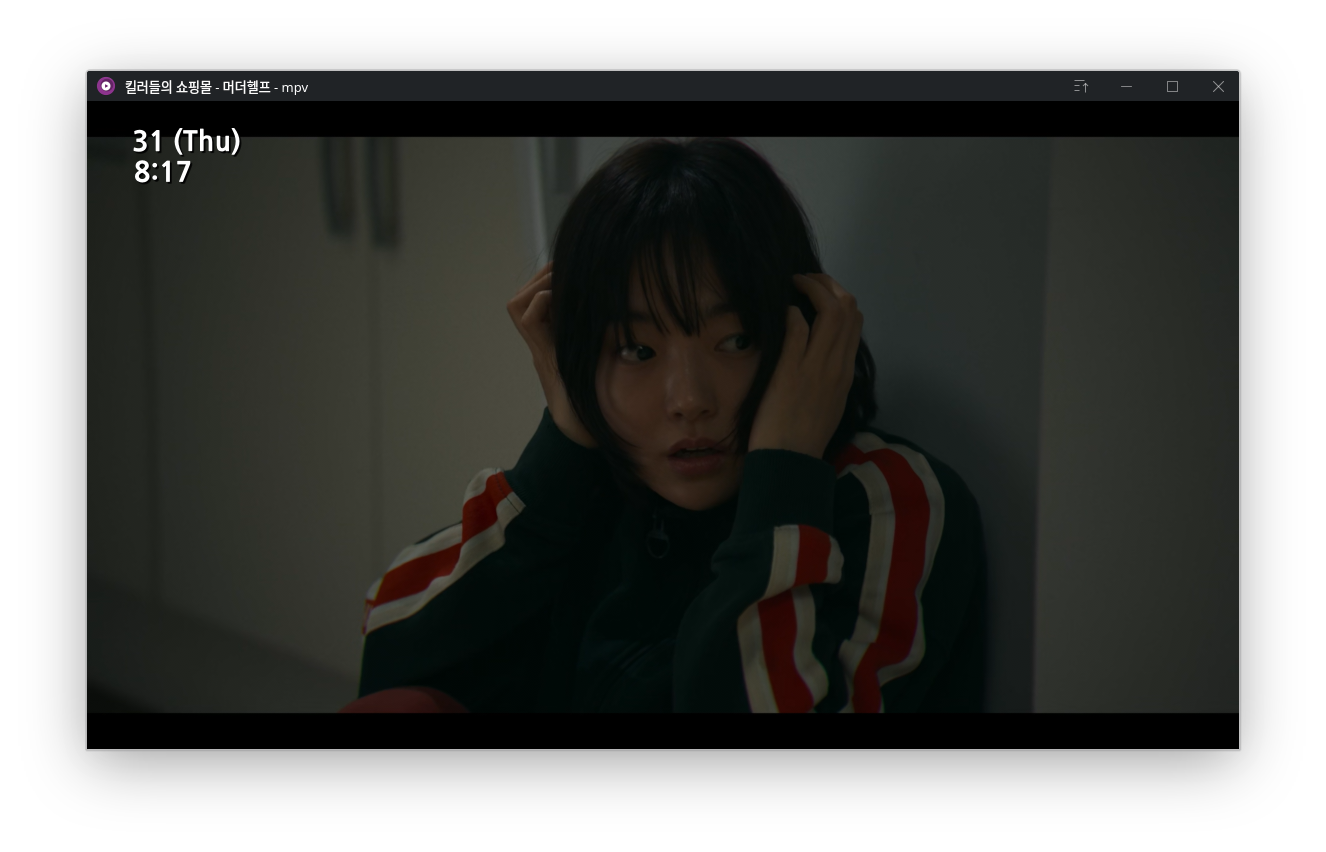
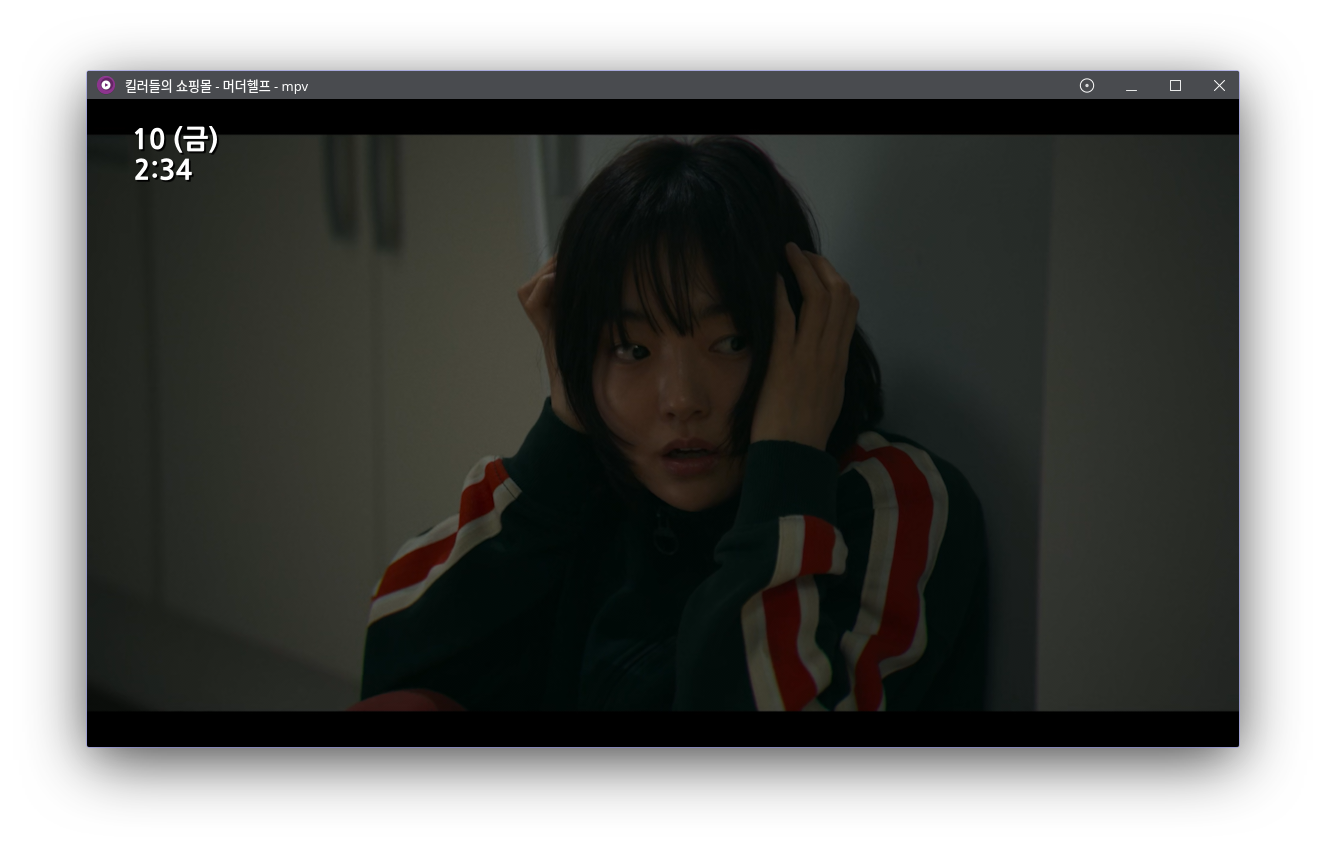
Update example in CUSTOMIZATION.md

diff --git a/docs/CUSTOMIZATION.md b/docs/CUSTOMIZATION.md
@@ -16,13 +16,13 @@ Create a `osc-clock.conf` file inside your mpv `script-opts` directory.
 |  `clock_fontsize`     |  Set font size                                                                |        `48`            |                                                                                                 |
 |  `clock_fontbold`     |  Set font bold                                                                |        `no`            |                                                                                                 |
 |  `clock_fontitalic`   |  Set font italic                                                              |        `no`            |                                                                                                 |
-|  `clock_fontcolor`    |  Set font color                                                               |        `FFFFFF`        |  Uses the RRGGBB format                                                                         |
+|  `clock_fontcolor`    |  Set font color                                                               |        `FFFFFF`        |  Uses the `RRGGBB` format                                                                         |
 |  `clock_fontalpha`    |  Set font transparency                                                        |        `0`             |  Available values: `0` - `255`                                                                  |
 |  `clock_bordersize`   |  Set border size                                                              |        `4`             |  Set `0` to disable the border                                                                  |
-|  `clock_bordercolor`  |  Set border color                                                             |        `000000`        |  Uses the RRGGBB format                                                                         |
+|  `clock_bordercolor`  |  Set border color                                                             |        `000000`        |  Uses the `RRGGBB` format                                                                         |
 |  `clock_borderalpha`  |  Set border transparency                                                      |        `0`             |  Available values: `0` - `255`                                                                  |
 |  `clock_shadowdist`   |  Set shadow distance                                                          |        `0`             |  Set `0` to disable the shadow                                                                  |
-|  `clock_shadowcolor`  |  Set shadow color                                                             |        `000000`        |  Uses the RRGGBB format                                                                         |
+|  `clock_shadowcolor`  |  Set shadow color                                                             |        `000000`        |  Uses the `RRGGBB` format                                                                         |
 |  `clock_shadowalpha`  |  Set shadow transparency                                                      |        `0`             |  Available values: `0` - `255`                                                                  |
 |  `clock_textspacing`  |  Set spacing between individual characters                                    |        `4`             |                                                                                                 |
 |  `clock_edgeblur`     |  Set text edge blur                                                           |        `1`             |  Set `0` to disable it                                                                          |
@@ -42,13 +42,13 @@ Create a `osc-clock.conf` file inside your mpv `script-opts` directory.
 |  `date_fontsize`      |  Set font size                                                                |        `30`            |                                                                                                 |
 |  `date_fontbold`      |  Set font bold                                                                |        `yes`           |                                                                                                 |
 |  `date_fontitalic`    |  Set font italic                                                              |        `no`            |                                                                                                 |
-|  `date_fontcolor`     |  Set font color                                                               |        `FFFFFF`        |  Uses the RRGGBB format                                                                         |
+|  `date_fontcolor`     |  Set font color                                                               |        `FFFFFF`        |  Uses the `RRGGBB` format                                                                         |
 |  `date_fontalpha`     |  Set font transparency                                                        |        `0`             |  Available values: `0` - `255`                                                                  |
 |  `date_bordersize`    |  Set border size                                                              |        `1`             |  Set `0` to disable the border                                                                  |
-|  `date_bordercolor`   |  Set border color                                                             |        `000000`        |  Uses the RRGGBB format                                                                         |
+|  `date_bordercolor`   |  Set border color                                                             |        `000000`        |  Uses the `RRGGBB` format                                                                         |
 |  `date_borderalpha`   |  Set border transparency                                                      |        `0`             |  Available values: `0` - `255`                                                                  |
 |  `date_shadowdist`    |  Set shadow distance                                                          |        `0`             |  Set `0` to disable the shadow                                                                  |
-|  `date_shadowcolor`   |  Set shadow color                                                             |        `000000`        |  Uses the RRGGBB format                                                                         |
+|  `date_shadowcolor`   |  Set shadow color                                                             |        `000000`        |  Uses the `RRGGBB` format                                                                         |
 |  `date_shadowalpha`   |  Set shadow transparency                                                      |        `0`             |  Available values: `0` - `255`                                                                  |
 |  `date_textspacing`   |  Set spacing between individual characters                                    |        `4`             |                                                                                                 |
 |  `date_edgeblur`      |  Set text edge blur                                                           |        `1`             |  Set `0` to disable it                                                                          |
@@ -58,7 +58,7 @@ Create a `osc-clock.conf` file inside your mpv `script-opts` directory.
 |  `duration`          |  Set how many seconds the clock should be displayed before auto-hiding         |        `5`             |                                                                                                     |
 |  `showosdmsg`        |  Toggle OSD messages                                                           |        `yes`           |                                                                                                     |
 |  `fade`              |  Turn the clock transparent with a hotkey                                      |        `80`            |  Set `0` to disable it. Available values: `0` - `255`                                               |
-|  `locale`            |  Set your prefered locale                                                      |        ` `             |  By default it uses lua's default (english). Uses language tags, ex.: `en_GB.UTF8` for British English or `zh_CN.UTF8` for Simplified Chinese   |
+|  `locale`            |  Set your prefered locale                                                      |        ` `             |  By default it uses lua's default (english). Uses language tags, ex.: `en_GB.UTF-8` for British English or `zh_CN.UTF-8` for Simplified Chinese   |
 |  `autoenable`        |  Set if the clock should be toggled automatically by default                   |        `no`            |  Available options:<br> `no`: Disable;<br> `yes`: Enable;<br> `onlyfs`: Enable only in fullscreen;<br> `bylang`: Enable via an audio track language specified by the user (only works if the audio track has a language metadata);  |
 |  `autoenable_langs`  |  List languages for the clock to autoenable it                                 |   `jpn, jp, kor, ko`   |  Only works if `autoenable` is set to `bylang`                                                      |
 |  `tempkey`           |  Set key to toggle the clock for a brief time                                  |        `c`             |                                                                                                     |
@@ -132,6 +132,7 @@ date_posx=50
 date_posy=26
 date_format=%d (%a)
 date_useclockopt=yes
+locale=ko_KR.UTF-8
 ```
 
 ![Screenshot5](/docs/assets/screenshot5.png)
